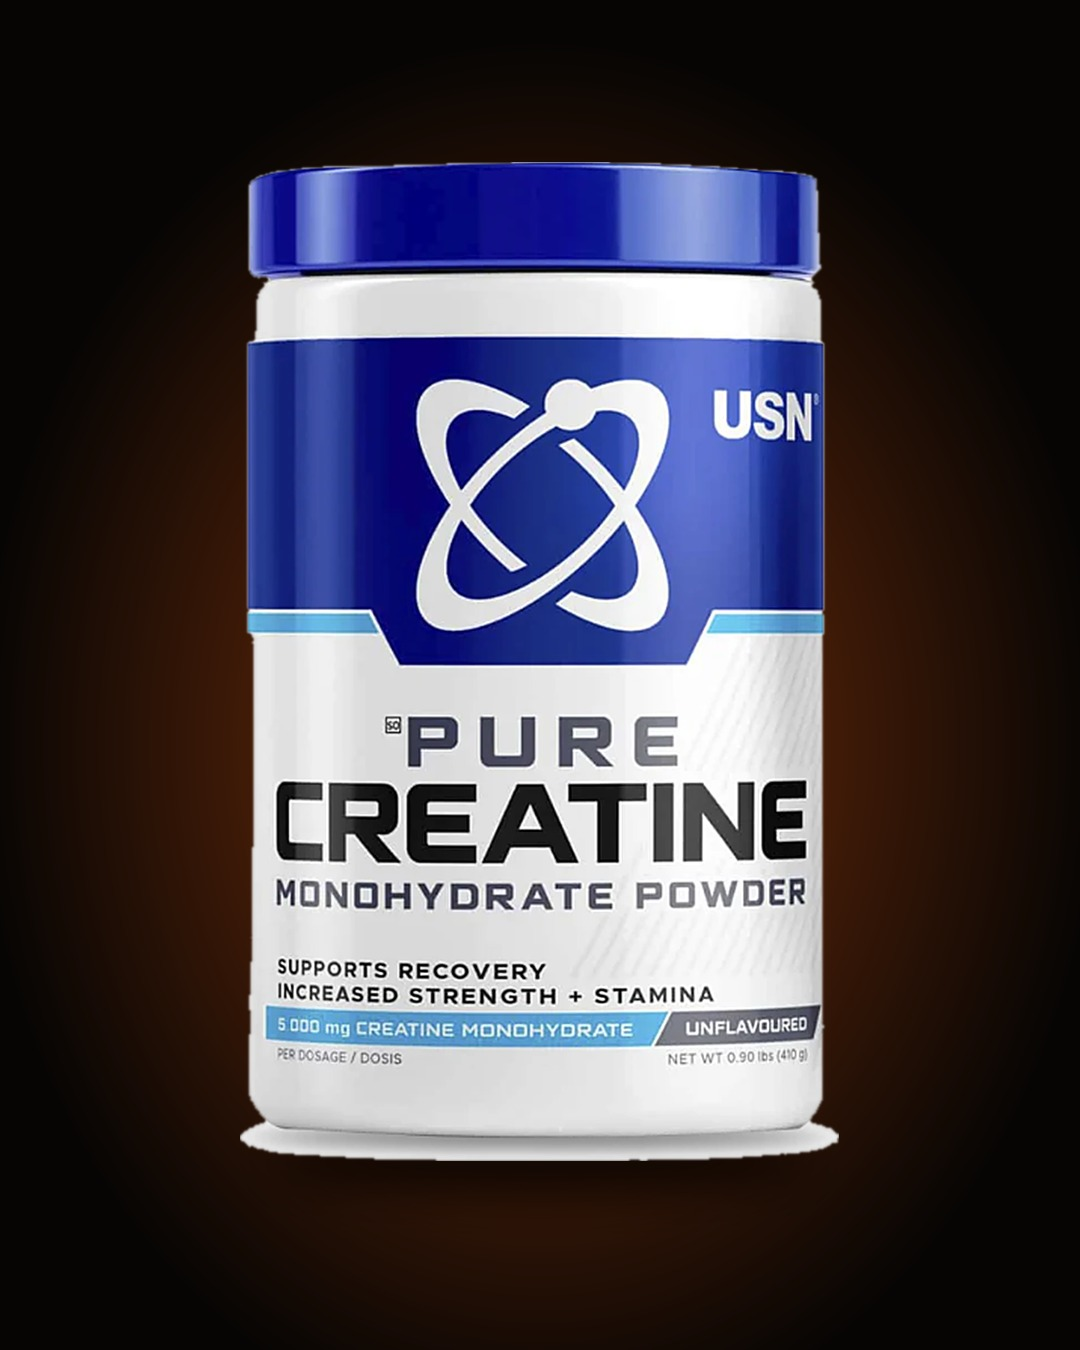
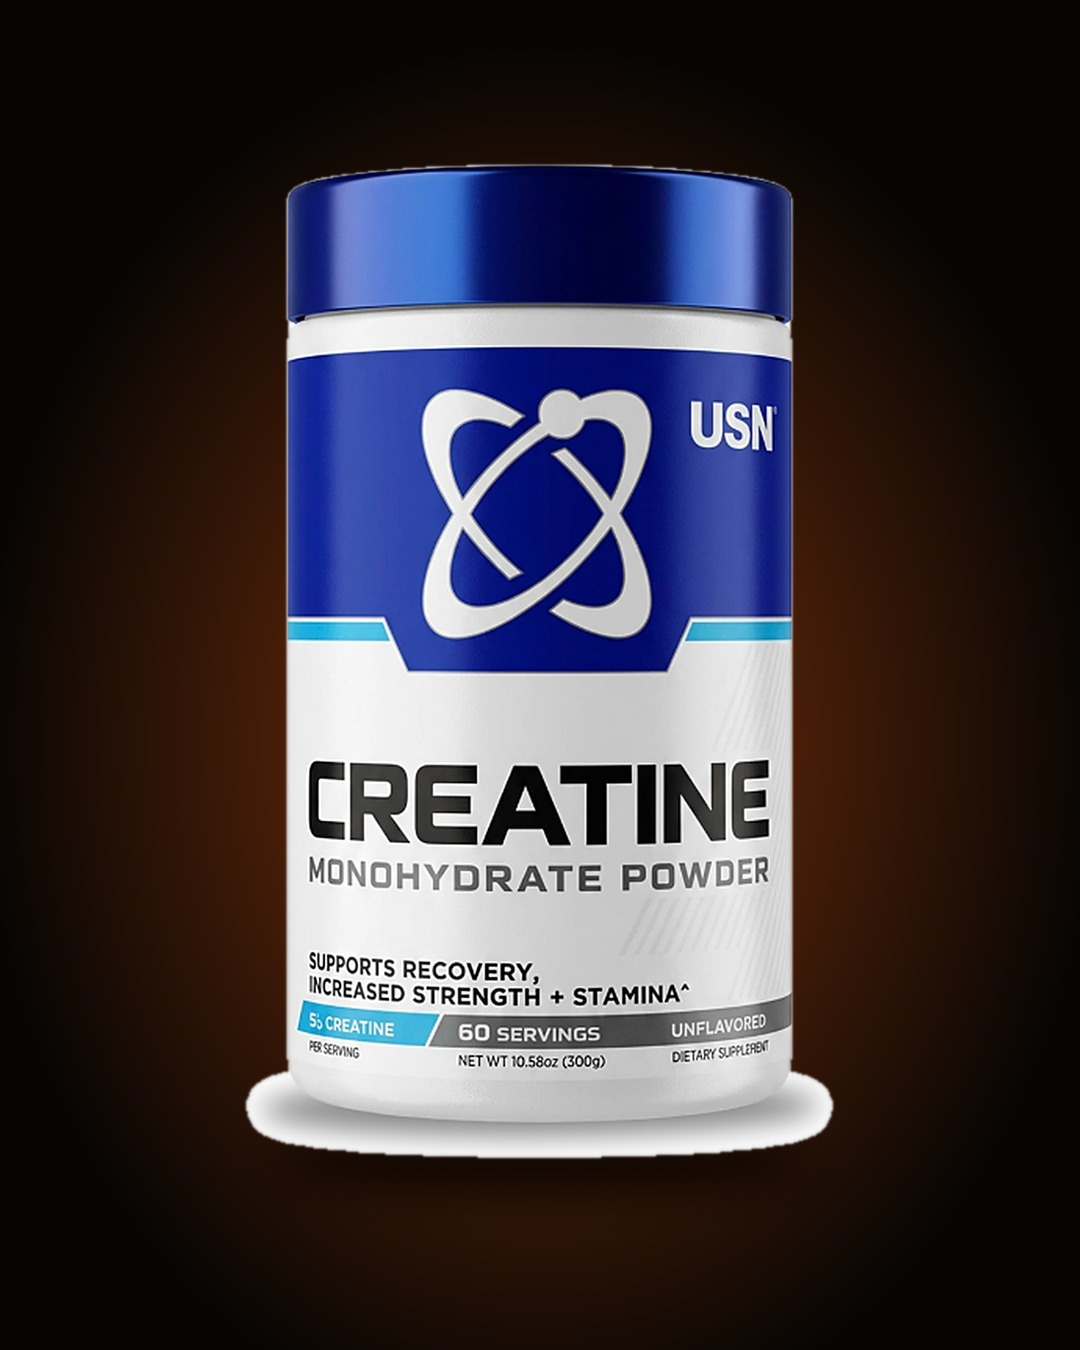
Imágenes oficiales de la versión exacta: creatina USN 300 g, MuscleTech 400 g, Lipo 6 cápsulas, multivitamínico
Claude-Session: https://claude.ai/code/session_01L8gB8Vcucavm81YHdPaFLQ

diff --git a/CLAUDE.md b/CLAUDE.md
@@ -34,7 +34,7 @@ Productos que pueden llegar (Dymatize ISO 100, Nitro Tech, Finaflex 1 kg, Ostrov
 - Nunca inventar precios, stock, descuentos, testimonios, resultados ni escasez ("quedan pocas", "últimas unidades"). Urgencia solo si es real (fecha de una promoción que el dueño definió, llegada de stock real).
 - Nada de promesas de cambios físicos ni curas. Lipo 6: presentarlo como termogénico con cafeína para energía al entrenar, nunca "baja X kilos"; incluir siempre la nota "Contiene cafeína (222 mg por cápsula). No apto para menores ni embarazadas."
 - Afirmaciones de suplementos solo las bien respaldadas (creatina 3–5 g/día, cualquier hora, todos los días, fase de carga opcional, retención de agua intramuscular, segura en personas sanas a dosis recomendadas). Ante enfermedad o medicamentos: "consulta a tu médico".
-- Imágenes de producto: las oficiales de la marca que aprobó el dueño (kit/build/p_*.png; sus fotos originales quedan como p_*_real.png). Los textos siempre describen el producto que él vende (gramos y porciones de la tabla del catálogo), aunque la imagen oficial muestre otra versión del envase. No inventar envases ni modificar etiquetas. Fotos 4:5 listas en Fotos/; catálogo en Feed/catalogo/, serie de creatina en Historias/serie_creatina/.
+- Imágenes de producto: imágenes oficiales de la versión exacta que vende el dueño (kit/build/p_*.png; sus fotos originales quedan como p_*_real.png). Los textos siempre describen el producto que él vende (gramos y porciones del catálogo). No inventar envases ni modificar etiquetas. Fotos 4:5 listas en Fotos/; catálogo en Feed/catalogo/, serie de creatina en Historias/serie_creatina/.
 - Marcar `isAiGenerated: false` (son fotos reales con diseño gráfico).
 
 ## Identidad visual
